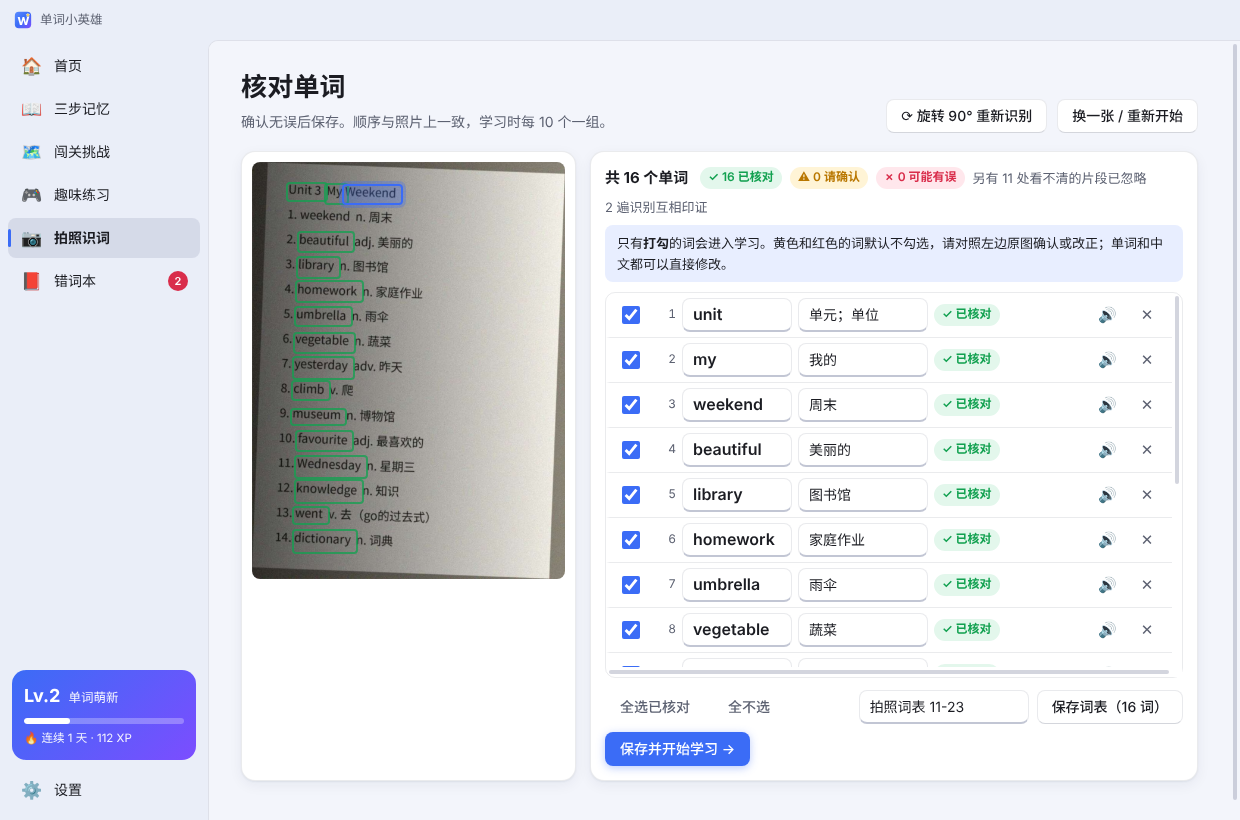
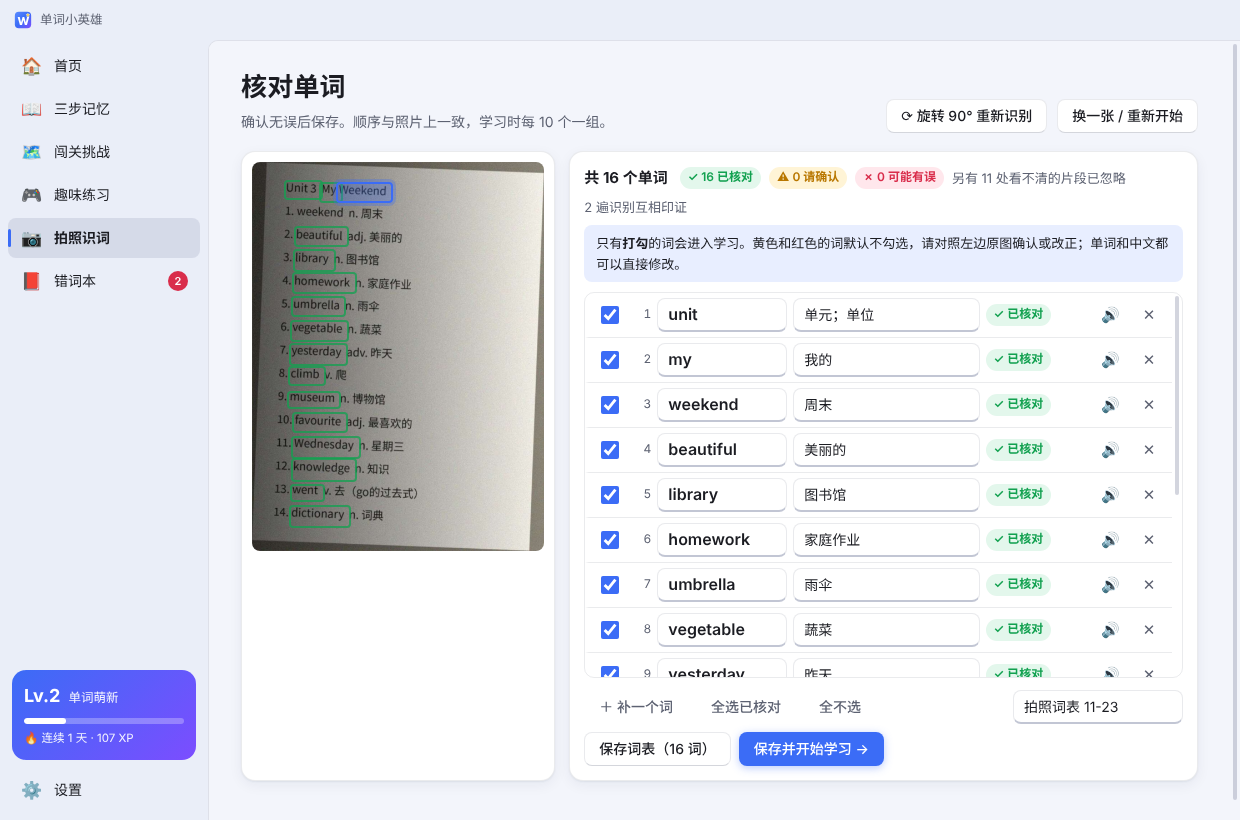
Photo import: keep multi-column lists in list order, stricter short-word rule
- detect columns from the aligned left edges of the words and read each
  column top to bottom (with a one-click switch to row order)
- very short "words" need stronger evidence before they are accepted
- small text on large photos is rescaled instead of skipped
- review screen: add a missing word by hand; wider word/meaning fields
- phrases whose parts are all real words pass the dictionary check
- distractors and the matching game treat shared senses (bye/goodbye) fairly
- three stars only for a perfect first-try round

Claude-Session: https://claude.ai/code/session_01V7UEns3npA2hsUFPjdK9Jb

diff --git a/src/js/scan.js b/src/js/scan.js
@@ -44,17 +44,17 @@ const Scan = {
       let res, prep;
       for (let attempt = 0; attempt < 2; attempt++) {
         prep = await this.prepare(scale);
-        res = await api.ocr({ gray: prep.gray, bin: prep.bin });
+        res = await api.ocr({ gray: prep.gray, bin: prep.bin, w: prep.w });
         if (!res.ok) throw new Error(res.error);
         // Text much smaller or larger than the size OCR reads best: rescale once and read again.
         const hs = res.items.map((i) => i.bbox.y1 - i.bbox.y0).sort((a, b) => a - b), med = hs[Math.floor(hs.length / 2)];
         if (attempt || hs.length < 3 || (med >= 28 && med <= 95)) break;
-        const next = Math.min(4, Math.max(0.25, (scale * 44) / med));
-        if (Math.abs(next / scale - 1) < 0.25 || long * next > 4600) break;
+        const next = Math.min(4, 4600 / long, Math.max(0.25, (scale * 44) / med));
+        if (Math.abs(next / scale - 1) < 0.25) break;
         scale = next; this.busy = '文字偏' + (med < 28 ? '小' : '大') + '，调整大小后再识别一遍…'; const el = $('#scan-busy'); if (el) el.textContent = this.busy;
       }
       this.size = { w: prep.w, h: prep.h };
-      this.items = res.items; this.info = { ignored: res.ignored, engines: res.engines };
+      this.items = res.items; this.info = { ignored: res.ignored, engines: res.engines, columns: res.columns, byRow: false };
       const d = new Date(); this.name = `拍照词表 ${d.getMonth() + 1}-${d.getDate()}`;
       if (!res.items.length) UI.toast('没有识别到英文单词。请确认照片清晰、文字是正的，或点「旋转」后重试。', 'bad');
     } catch (err) {
@@ -107,6 +107,7 @@ const Scan = {
         ${this.info.ignored ? `<span class="mute">另有 ${this.info.ignored} 处看不清的片段已忽略</span>` : ''}
         ${this.info.engines.length ? `<span class="mute" title="${esc(this.info.engines.join(' + '))}">${this.info.engines.length} 遍识别互相印证</span>` : ''}
       </div>
+      ${this.info.columns > 1 ? `<div class="scan-note cols">📑 这张单词表有 ${this.info.columns} 栏，现在的顺序是<b>${this.info.byRow ? '一行一行从左到右' : '先读完左边一栏，再读右边一栏'}</b>。<button class="link" data-act="scan-order">${this.info.byRow ? '改为一栏一栏读' : '改为一行一行读'}</button></div>` : ''}
       <div class="scan-note">只有<b>打勾</b>的词会进入学习。黄色和红色的词默认不勾选，请对照${this.manual ? '原文' : '左边原图'}确认或改正；单词和中文都可以直接修改。</div>
       <div class="scan-rows">
         ${it.map((x, i) => `
@@ -120,7 +121,7 @@ const Scan = {
           </div>`).join('')}
       </div>
       <div class="scan-foot">
-        <button class="btn ghost" data-act="scan-all">全选已核对</button><button class="btn ghost" data-act="scan-none">全不选</button>
+        <button class="btn ghost" data-act="scan-add">＋ 补一个词</button><button class="btn ghost" data-act="scan-all">全选已核对</button><button class="btn ghost" data-act="scan-none">全不选</button>
         <span class="grow"></span>
         <input id="scan-name" value="${esc(this.name)}" maxlength="24" title="词表名称">
         <button class="btn" data-act="scan-save" ${n ? '' : 'disabled'}>保存词表（${n} 词）</button>
@@ -198,6 +199,16 @@ Act['scan-rotate'] = () => { Scan.rot = (Scan.rot + 90) % 360; Scan.recognize();
 Act['scan-new'] = () => { Scan.reset(); go('scan'); };
 Act['scan-all'] = () => { Scan.items.forEach((x) => { if (x.status === 'ok') x.checked = true; }); Scan.redraw(); };
 Act['scan-none'] = () => { Scan.items.forEach((x) => { x.checked = false; }); Scan.redraw(); };
+Act['scan-order'] = () => {
+  const info = Scan.info; info.byRow = !info.byRow;
+  if (info.byRow) { Scan.items.forEach((x, i) => { x.col = i; }); Scan.items.sort((a, b) => (a.seq ?? 1e9) - (b.seq ?? 1e9)); }
+  else Scan.items.sort((a, b) => (a.col ?? 1e9) - (b.col ?? 1e9));
+  Scan.redraw(); Scan.drawBoxes();
+};
+Act['scan-add'] = () => {
+  Scan.items.push({ w: '', raw: '', p: '', m: '', status: 'bad', note: '请输入单词，按回车核对', sugg: [], checked: false, bbox: null });
+  Scan.redraw(); const rows = $('.scan-rows'); rows.scrollTop = rows.scrollHeight; $$('.s-w').pop().focus();
+};
 Act['scan-save'] = () => { if (Scan.save()) go('learn'); };
 Act['scan-learn'] = () => { const l = Scan.save(); if (l) { go('learn'); startGroup(l.id, 0, () => go('learn')); } };
 Act['scan-text'] = async () => {

diff --git a/ocr.js b/ocr.js
@@ -125,7 +125,9 @@ function classify(tokens, engineCount) {
     if (e) {
       const sure = (conf != null && conf >= 75) || p.votes >= 2;
       // short "words" are what stray marks and Chinese characters usually turn into: demand strong evidence
-      if (p.t.length <= 3 && !((p.votes >= 2 && (conf == null || conf >= 60)) || (conf != null && conf >= 90))) { ignored++; continue; }
+      const strong = conf != null && conf >= 90;
+      if (p.t.length <= 2 && !(p.votes >= 2 && conf != null && conf >= 92)) { ignored++; continue; }
+      if (p.t.length === 3 && !(strong || (p.votes >= 2 && (conf == null || conf >= 75)))) { ignored++; continue; }
       status = sure ? 'ok' : 'warn';
       if (!sure) note = '识别把握不大，请对照原图确认';
       if (altsKnown.length && p.votes < 2 && (conf == null || conf < 90)) { status = 'warn'; note = '几次识别结果不一致，请对照原图确认'; }
@@ -135,7 +137,7 @@ function classify(tokens, engineCount) {
       altsKnown.splice(altsKnown.indexOf(pick), 1);
       e = dict.lookup(pick); status = 'warn'; note = `原识别为 “${p.t}”，已按另一次识别更正，请确认`;
     } else {
-      if (p.t.length <= 2 || (conf != null && conf < 60)) { ignored++; continue; }
+      if (p.t.length <= 2 || (conf != null && conf < 60) || (p.t.length === 3 && !(conf != null && conf >= 90))) { ignored++; continue; }
       status = 'bad'; note = '词典里没有这个词，可能识别有误';
     }
     const word = e ? e.w : p.t;
@@ -153,7 +155,44 @@ function classify(tokens, engineCount) {
   return { items, ignored };
 }
 
-// images: { gray: Buffer(PNG), bin: Buffer(PNG) } — same pixel size.
+// Word lists are often printed in two or three columns. OCR may read such a page row by row, which would
+// mix the columns; pupils must get the words in list order, so detect columns from the aligned left edges
+// of the words and read each column top to bottom. Every item keeps `seq` (the row-by-row order).
+function orderColumns(items, width) {
+  items.forEach((it, i) => { it.seq = i; });
+  const n = items.length;
+  if (n < 8 || !width) return 1;
+  const tol = width * 0.012;
+  const sorted = [...items].sort((a, b) => a.bbox.x0 - b.bbox.x0);
+  const clusters = [];
+  for (const it of sorted) {
+    const last = clusters[clusters.length - 1];
+    if (last && it.bbox.x0 - last.max <= tol) { last.items.push(it); last.max = it.bbox.x0; } else clusters.push({ min: it.bbox.x0, max: it.bbox.x0, items: [it] });
+  }
+  const big = clusters.filter((c) => c.items.length >= Math.max(4, n * 0.2));
+  if (big.length < 2 || big.reduce((a, c) => a + c.items.length, 0) < n * 0.75) return 1;
+  for (let i = 1; i < big.length; i++) if (big[i].min - big[i - 1].max < width * 0.15) return 1;
+  const top = Math.min(...big.flatMap((c) => c.items.map((it) => it.bbox.y0)));
+  const colOf = (it) => { let c = 0; big.forEach((b, i) => { if (it.bbox.x0 >= b.min - tol) c = i; }); return c; };
+  const head = items.filter((it) => it.bbox.y1 < top);
+  const mid = (it) => (it.bbox.y0 + it.bbox.y1) / 2;
+  const body = [];
+  big.forEach((_, c) => {
+    // inside a column: top to bottom line by line, left to right within a line
+    const col = items.filter((it) => it.bbox.y1 >= top && colOf(it) === c).sort((a, b) => mid(a) - mid(b));
+    let line = [];
+    const flush = () => { body.push(...line.sort((a, b) => a.bbox.x0 - b.bbox.x0)); line = []; };
+    for (const it of col) {
+      if (line.length && mid(it) - mid(line[0]) > (line[0].bbox.y1 - line[0].bbox.y0) * 0.6) flush();
+      line.push(it);
+    }
+    flush();
+  });
+  items.splice(0, n, ...head, ...body);
+  return big.length;
+}
+
+// images: { gray: Buffer(PNG), bin: Buffer(PNG), w } — same pixel size.
 async function run(images, onProgress = () => {}) {
   const engines = [];
   onProgress({ step: 1, total: 4, text: '第一遍识别（灰度图）…' });
@@ -177,7 +216,8 @@ async function run(images, onProgress = () => {}) {
     m.inserted = true; insertByPosition(primary, m);
   }
   const { items, ignored } = classify(primary, engines.length);
-  return { items, ignored, engines };
+  const columns = orderColumns(items, images.w);
+  return { items, ignored, engines, columns };
 }
 
 async function shutdown() {

diff --git a/src/styles.css b/src/styles.css
@@ -269,18 +269,19 @@ button.mode-card:hover { transform: translateY(-3px); box-shadow: var(--shadow-l
 .scan-wait { text-align: center; padding: 60px 20px; } .scan-wait h3 { margin: 18px 0 8px; }
 .spinner { width: 46px; height: 46px; margin: 0 auto; border-radius: 50%; border: 5px solid var(--accent-soft); border-top-color: var(--accent); animation: spin .9s linear infinite; } @keyframes spin { to { transform: rotate(360deg); } }
 .page-scan { max-width: 1400px; }
-.scan-main { display: grid; grid-template-columns: minmax(280px, 5fr) 7fr; gap: 14px; height: calc(100vh - 190px); min-height: 420px; } .scan-main.no-img { grid-template-columns: 1fr; }
+.scan-main { display: grid; grid-template-columns: minmax(260px, 4fr) 8fr; gap: 14px; height: calc(100vh - 190px); min-height: 420px; } .scan-main.no-img { grid-template-columns: 1fr; }
 .scan-img { padding: 10px; overflow: auto; } .scan-img-in { position: relative; } .scan-img img { display: block; width: 100%; border-radius: 8px; }
 #scan-boxes { position: absolute; inset: 0; } .box { position: absolute; border-radius: 4px; border: 2px solid; margin: -3px; padding: 3px; box-sizing: content-box; }
 .box.ok { border-color: rgba(18, 161, 80, .75); } .box.warn { border-color: rgba(230, 150, 0, .9); background: rgba(255, 200, 0, .14); } .box.bad { border-color: rgba(217, 45, 75, .9); background: rgba(217, 45, 75, .12); }
 .box.hot { background: rgba(59, 108, 246, .28); border-color: var(--accent); box-shadow: 0 0 0 3px rgba(59, 108, 246, .3); z-index: 2; }
 .scan-review { display: flex; flex-direction: column; padding: 14px; min-height: 0; }
 .scan-sum { display: flex; align-items: center; gap: 8px; flex-wrap: wrap; font-size: 13px; } .scan-sum b { font-size: 15px; margin-right: 4px; }
+.scan-note.cols { background: var(--warn-soft); margin-bottom: 0; }
 .scan-note { margin: 8px 0 10px; padding: 8px 12px; border-radius: 8px; background: var(--accent-soft); font-size: 13px; }
 .st { display: inline-flex; align-items: center; height: 22px; padding: 0 8px; border-radius: 20px; font-size: 12px; font-weight: 600; white-space: nowrap; }
 .st.ok { background: var(--good-soft); color: var(--good); } .st.warn { background: var(--warn-soft); color: var(--warn); } .st.bad { background: var(--bad-soft); color: var(--bad); }
 .scan-rows { flex: 1; overflow: auto; border: 1px solid var(--line); border-radius: 10px; }
-.srow { display: grid; grid-template-columns: 26px 26px minmax(110px, 1.1fr) minmax(130px, 1.6fr) minmax(150px, 1.5fr) 34px 34px; align-items: center; gap: 6px; padding: 5px 8px; border-bottom: 1px solid var(--line); border-left: 4px solid transparent; }
+.srow { display: grid; grid-template-columns: 24px 24px minmax(130px, 1.2fr) minmax(150px, 2fr) minmax(92px, 1.1fr) 32px 32px; align-items: center; gap: 6px; padding: 5px 8px; border-bottom: 1px solid var(--line); border-left: 4px solid transparent; }
 .srow.warn { border-left-color: #f0a400; background: color-mix(in srgb, var(--warn-soft) 55%, transparent); } .srow.bad { border-left-color: var(--bad); background: color-mix(in srgb, var(--bad-soft) 55%, transparent); }
 .srow.off .s-w, .srow.off .s-m { opacity: .6; } .srow input[type="checkbox"] { width: 18px; height: 18px; accent-color: var(--accent); cursor: pointer; }
 .s-w { font: 600 16px var(--font-word) !important; width: 100%; } .s-m { width: 100%; }

diff --git a/main.js b/main.js
@@ -70,7 +70,7 @@ ipcMain.handle('dict:suggest', (_e, word) => dict.suggest(word));
 // ---------- OCR ----------
 ipcMain.handle('ocr:run', async (e, images) => {
   try {
-    const res = await ocr.run({ gray: Buffer.from(images.gray), bin: Buffer.from(images.bin) }, (p) => e.sender.send('ocr:progress', p));
+    const res = await ocr.run({ gray: Buffer.from(images.gray), bin: Buffer.from(images.bin), w: images.w }, (p) => e.sender.send('ocr:progress', p));
     return { ok: true, ...res };
   } catch (err) {
     return { ok: false, error: String((err && err.message) || err) };
